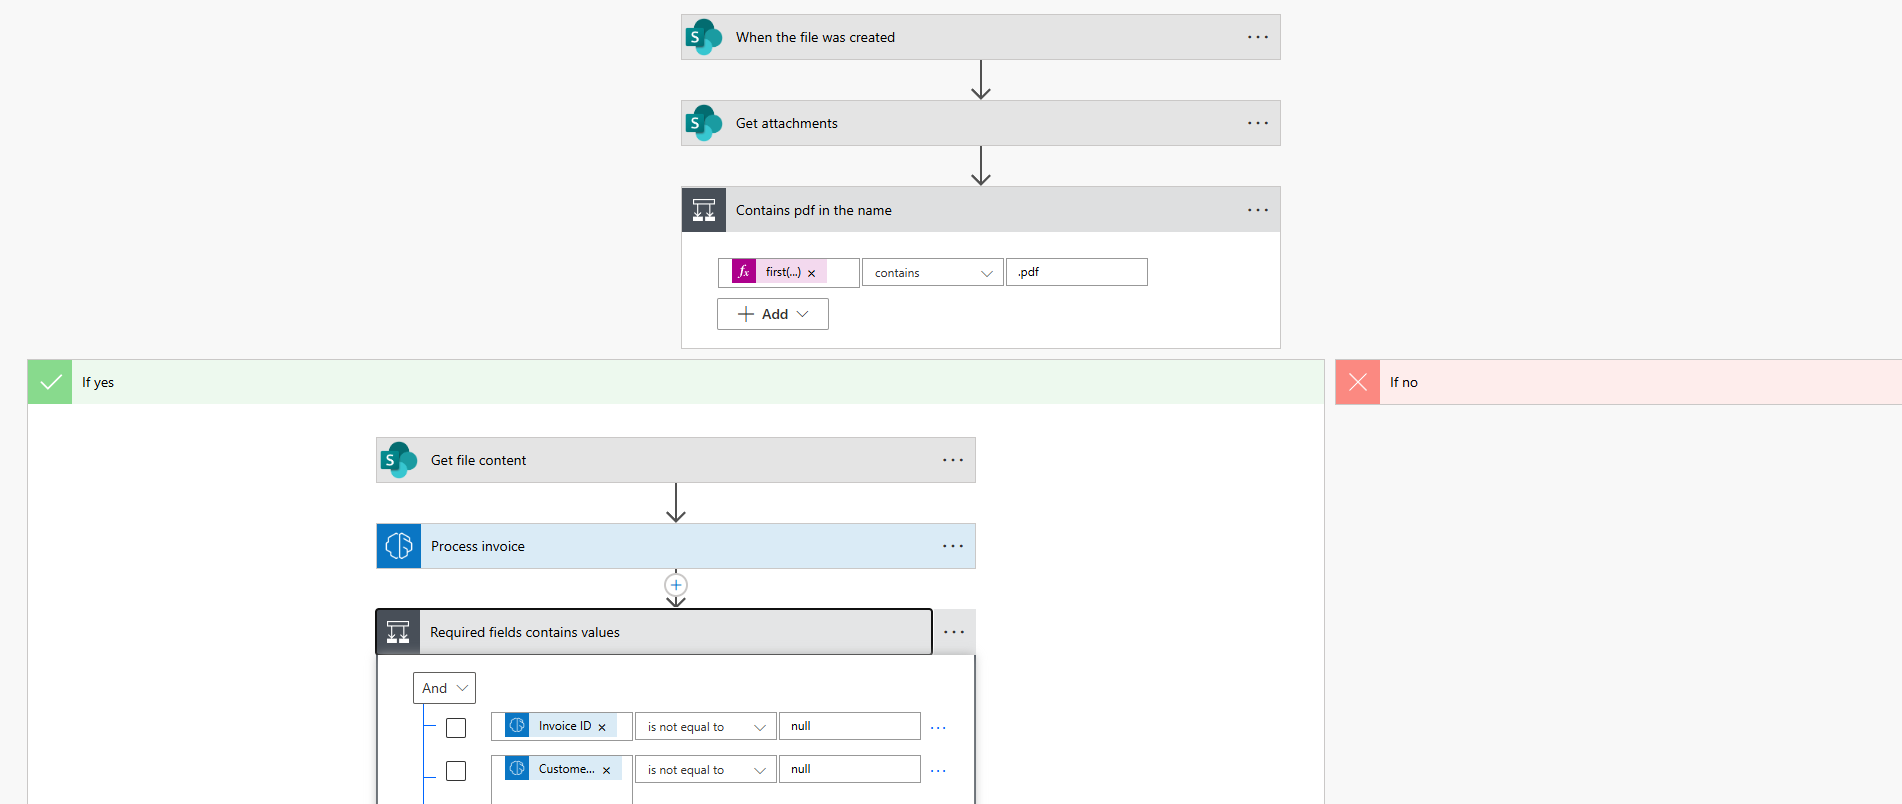
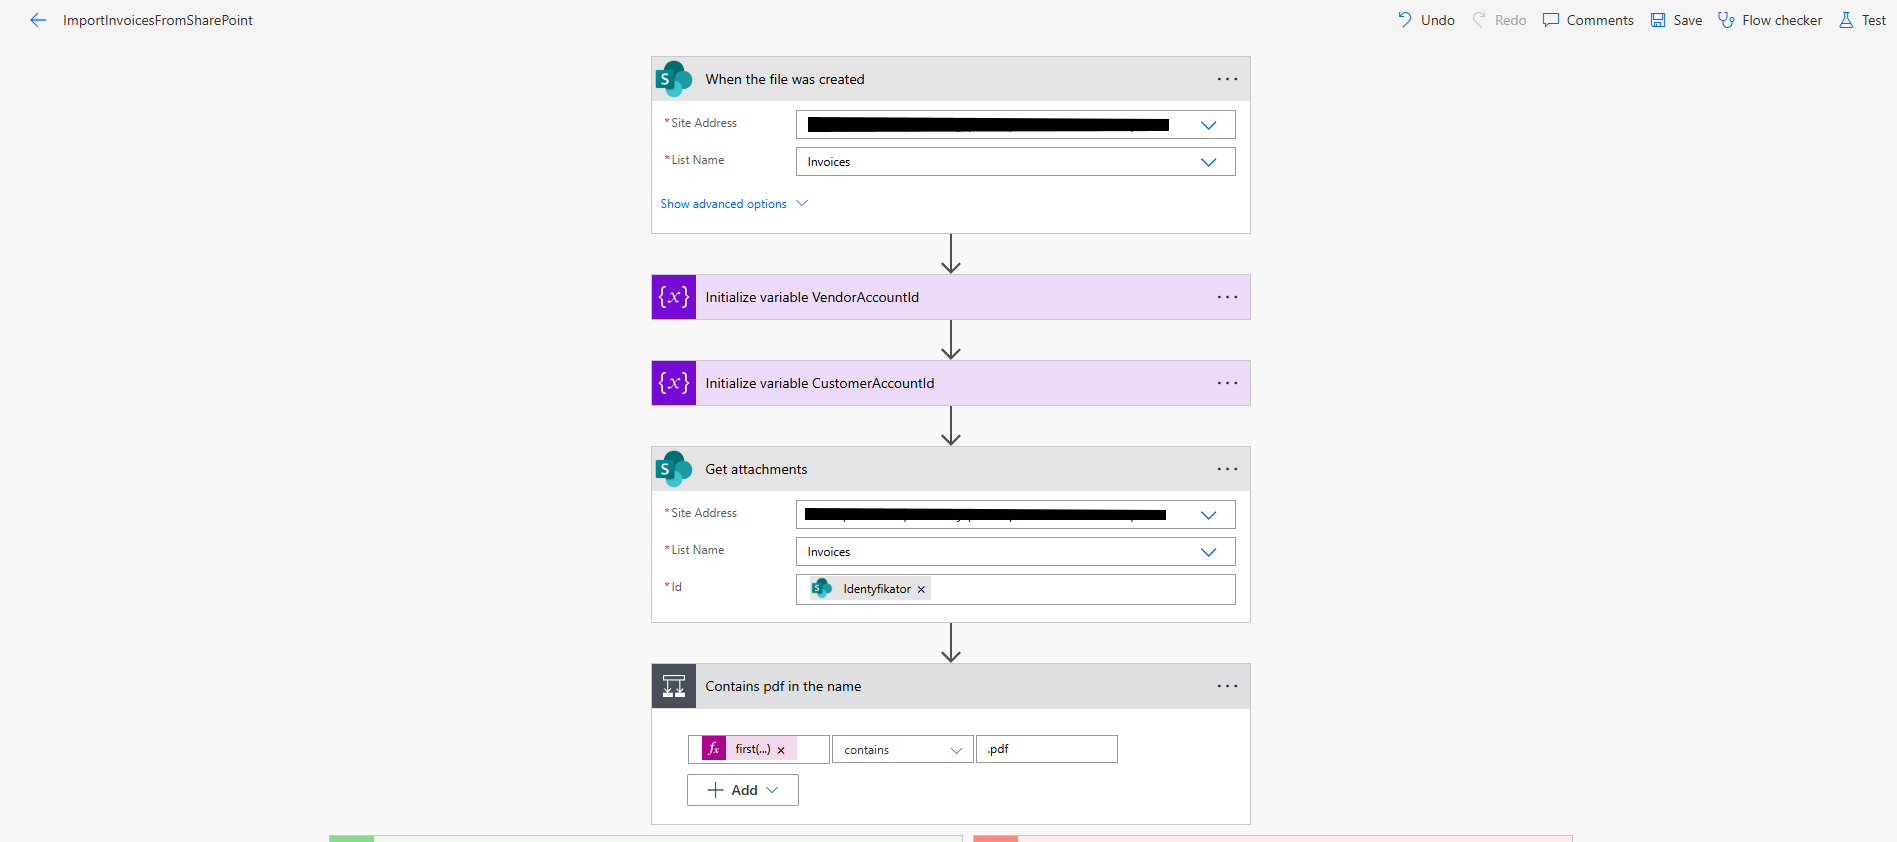
change: text, images

diff --git a/power-platform-invoice-automation/README.md b/power-platform-invoice-automation/README.md
@@ -1,5 +1,10 @@
 🧩 Projekt: Invoice Processing Automation (Power Platform)
 
+The goal of this project is to automatically create invoices in CRM when attachments are added to SharePoint. The process logic should include:
+
+Creating a new account for the seller and the customer if they do not already exist in the system.
+Creating an invoice based on the attachment, using the selected currency.
+If the seller and customer records already exist, new records should not be created.
 
 Description:
 
@@ -30,21 +35,28 @@ Power Automate → AI Builder → Dataverse → Power Apps
 
 ⚙ Flow (Power Automate)
 
+![alt text](image.png)
+
 ![alt text](image-1.png)
 
 ![alt text](image-2.png)
 
-➕ Add a new account
+
+➕ Add a new seller when not exists
 
 ![alt text](image-3.png)
 
-➕ Add a new invoice
+
+➕ Add a new customer when not exists
 
 ![alt text](image-4.png)
 
+
+➕ Add a new invoice
+
+
 ✉ Send email
 
-![alt text](image-5.png)
 
 
 💡 Challenges
